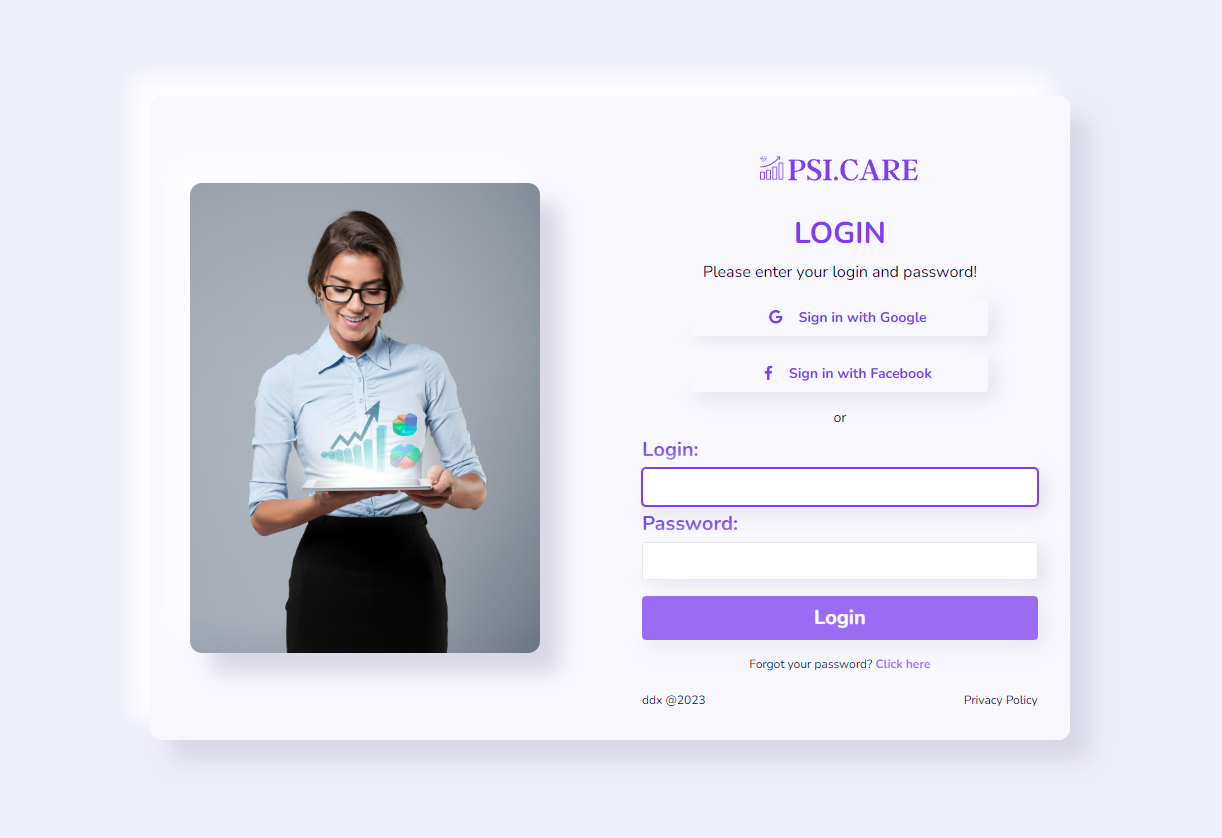
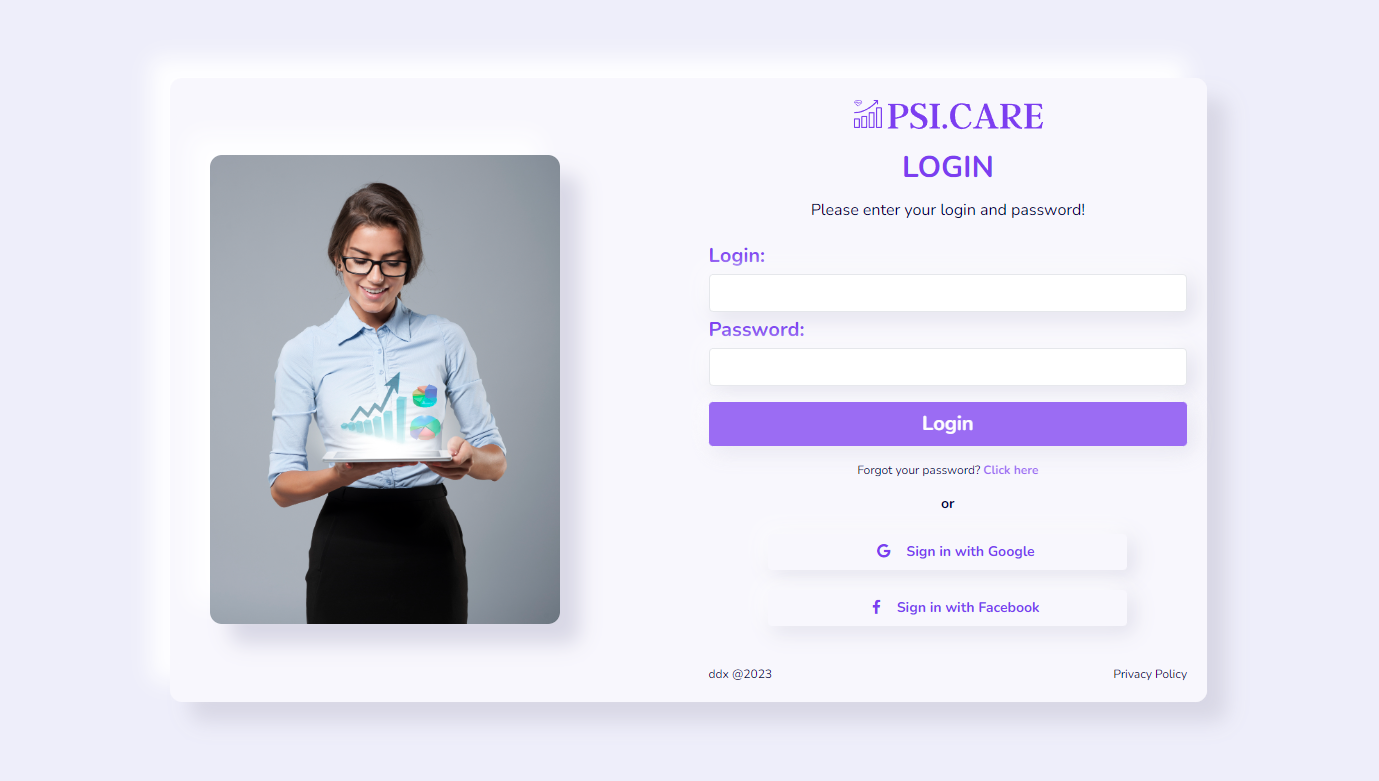
commit(#2) - Changing order of login elements

diff --git a/index.html b/index.html
@@ -39,32 +39,18 @@
         width="350px" alt="">
     </section>
 
-    <section class="bg-button-background p-8 gap-2 flex flex-col rounded-xl lg:w-1/2 lg:rounded-l-none">
+    <section class="bg-button-background p-5 gap-2 flex flex-col rounded-xl lg:w-1/2 lg:rounded-l-none">
 
       <div class="flex flex-col">
         <!-- Image -->
-        <img src="./assets/psicare.svg" class="h-20" alt="">
+        <img src="./assets/psicare.svg" class="h-8 mb-3 " alt="">
       </div>
 
       <div class="text-center">
         <!-- Texts -->
-        <h1 class="text-3xl mb-2 text-details font-bold ">LOGIN</h1>
-        <p class="text-base text-primary mb-2 ">Please enter your login and password!</p>
+        <h1 class="text-3xl mb-3 text-details font-bold ">LOGIN</h1>
+        <p class="text-base text-primary mb-3">Please enter your login and password!</p>
       </div>
-
-      <!-- Login with external services -->
-      <div class="flex flex-col items-center gap-3">
-        <button
-          class="text-details text-sm font-bold w-3/4 p-1 border-none bg-button-background hover:bg-button-background-2 py-2 mb-2 border rounded shadow-shadow-2 duration-150 lg:items-center"><i
-            class="fa-brands fa-google mx-4" style="color: #7c3ef0;"></i>Sign
-          in with Google</button>
-        <button
-          class="text-details text-sm font-bold w-3/4 p-1 border-none bg-button-background hover:bg-button-background-2 py-2 mb-2 border rounded shadow-shadow-2 duration-150 lg:items-center"><i
-            class="fa-brands fa-facebook-f mx-4" style="color: #7c3ef0;"></i>Sign
-          in with Facebook</button>
-      </div>
-
-      <p class="text-primary text-sm text-center">or</p>
 
       <!-- Form area -->
       <div class="flex flex-col gap-1">
@@ -84,9 +70,25 @@
         type="button">Login</button>
 
 
-      <p class="text-xs text-primary text-center">Forgot your password? <a
+      <p class="text-xs text-primary text-center mb-2">Forgot your password? <a
           class="text-details opacity-75 hover:opacity-100 font-bold" href="#">Click
           here</a></p>
+
+      <!-- Login with external services -->
+      <p class="text-primary text-sm text-center font-bold">or</p>
+
+
+      <div class="flex flex-col items-center gap-3 my-3">
+        <button
+          class="text-details text-sm font-bold w-3/4 p-1 border-none bg-button-background hover:bg-button-background-2 py-2 mb-2 border rounded shadow-shadow-2 duration-150 lg:items-center"><i
+            class="fa-brands fa-google mx-4" style="color: #7c3ef0;"></i>Sign
+          in with Google</button>
+        <button
+          class="text-details text-sm font-bold w-3/4 p-1 border-none bg-button-background hover:bg-button-background-2 py-2 mb-2 border rounded shadow-shadow-2 duration-150 lg:items-center"><i
+            class="fa-brands fa-facebook-f mx-4" style="color: #7c3ef0;"></i>Sign
+          in with Facebook</button>
+      </div>
+
 
       <!-- Footer -->
       <div class="flex justify-between mt-3">
